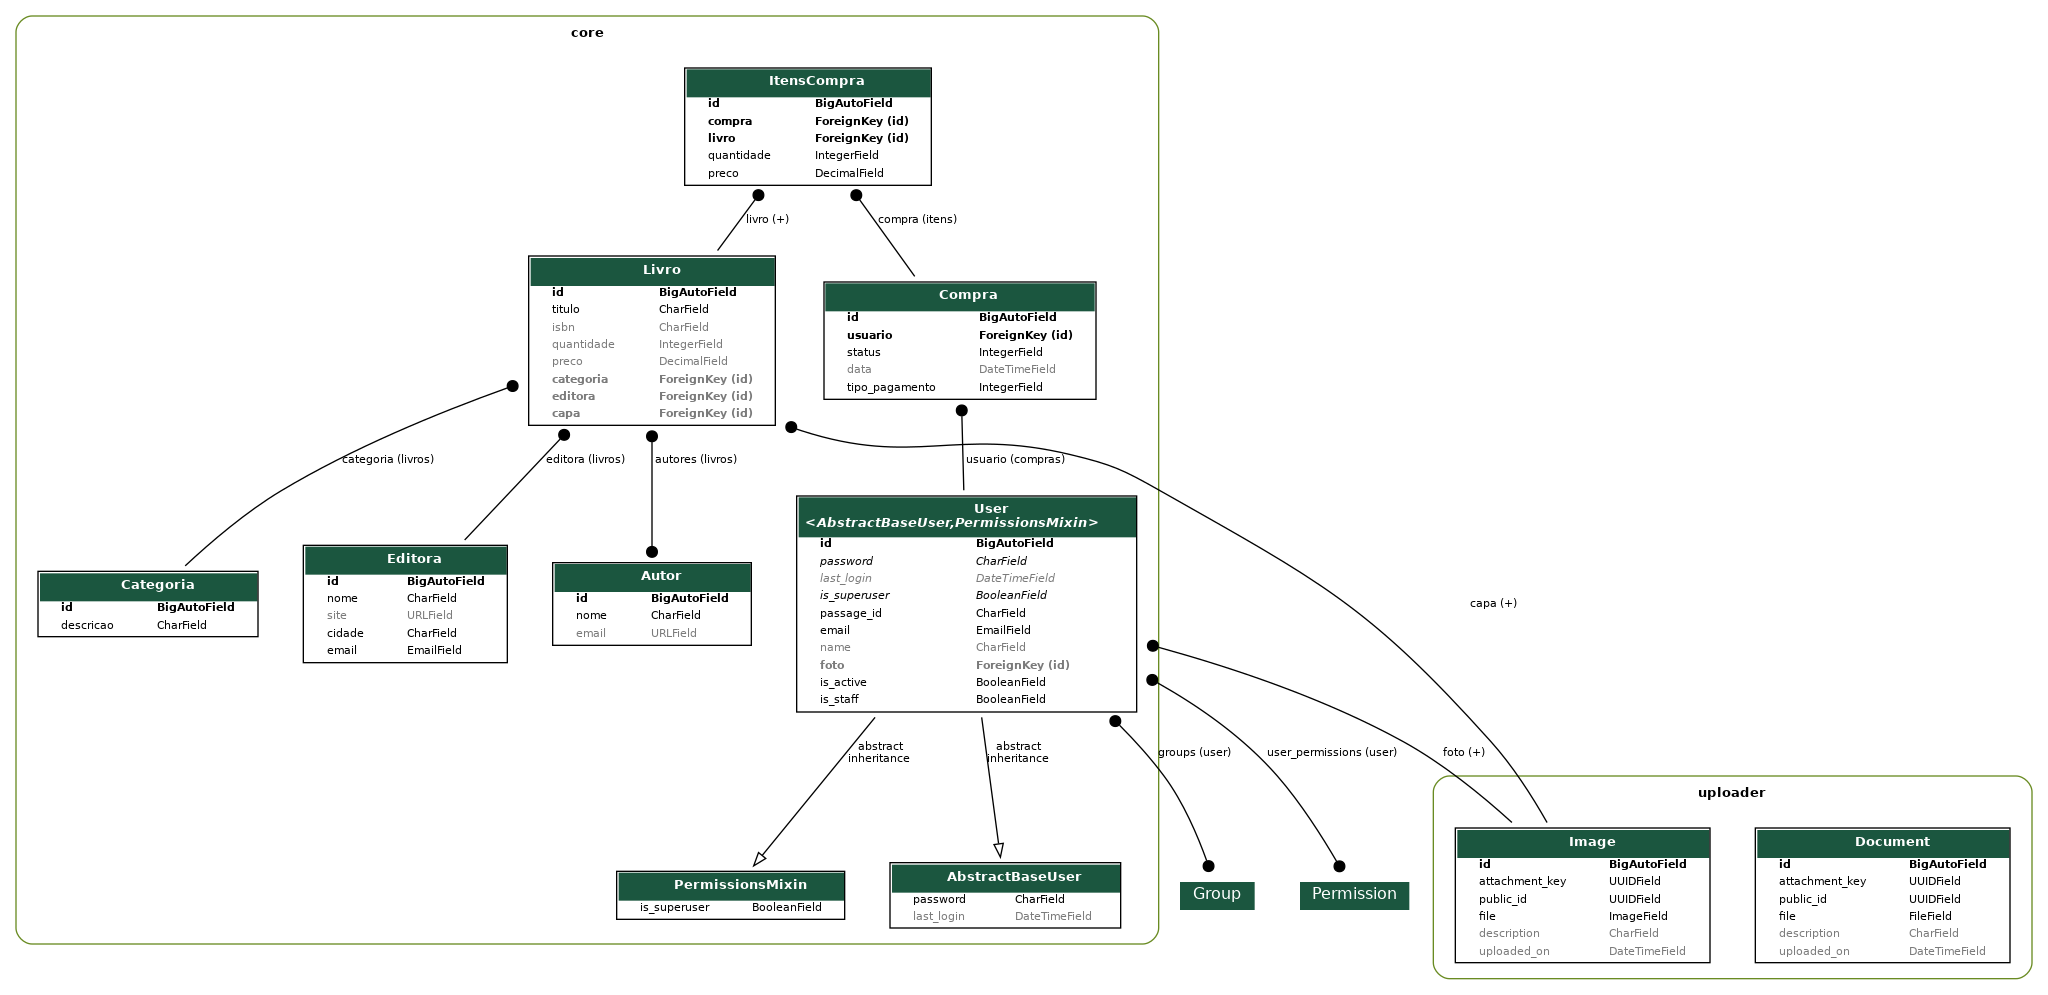
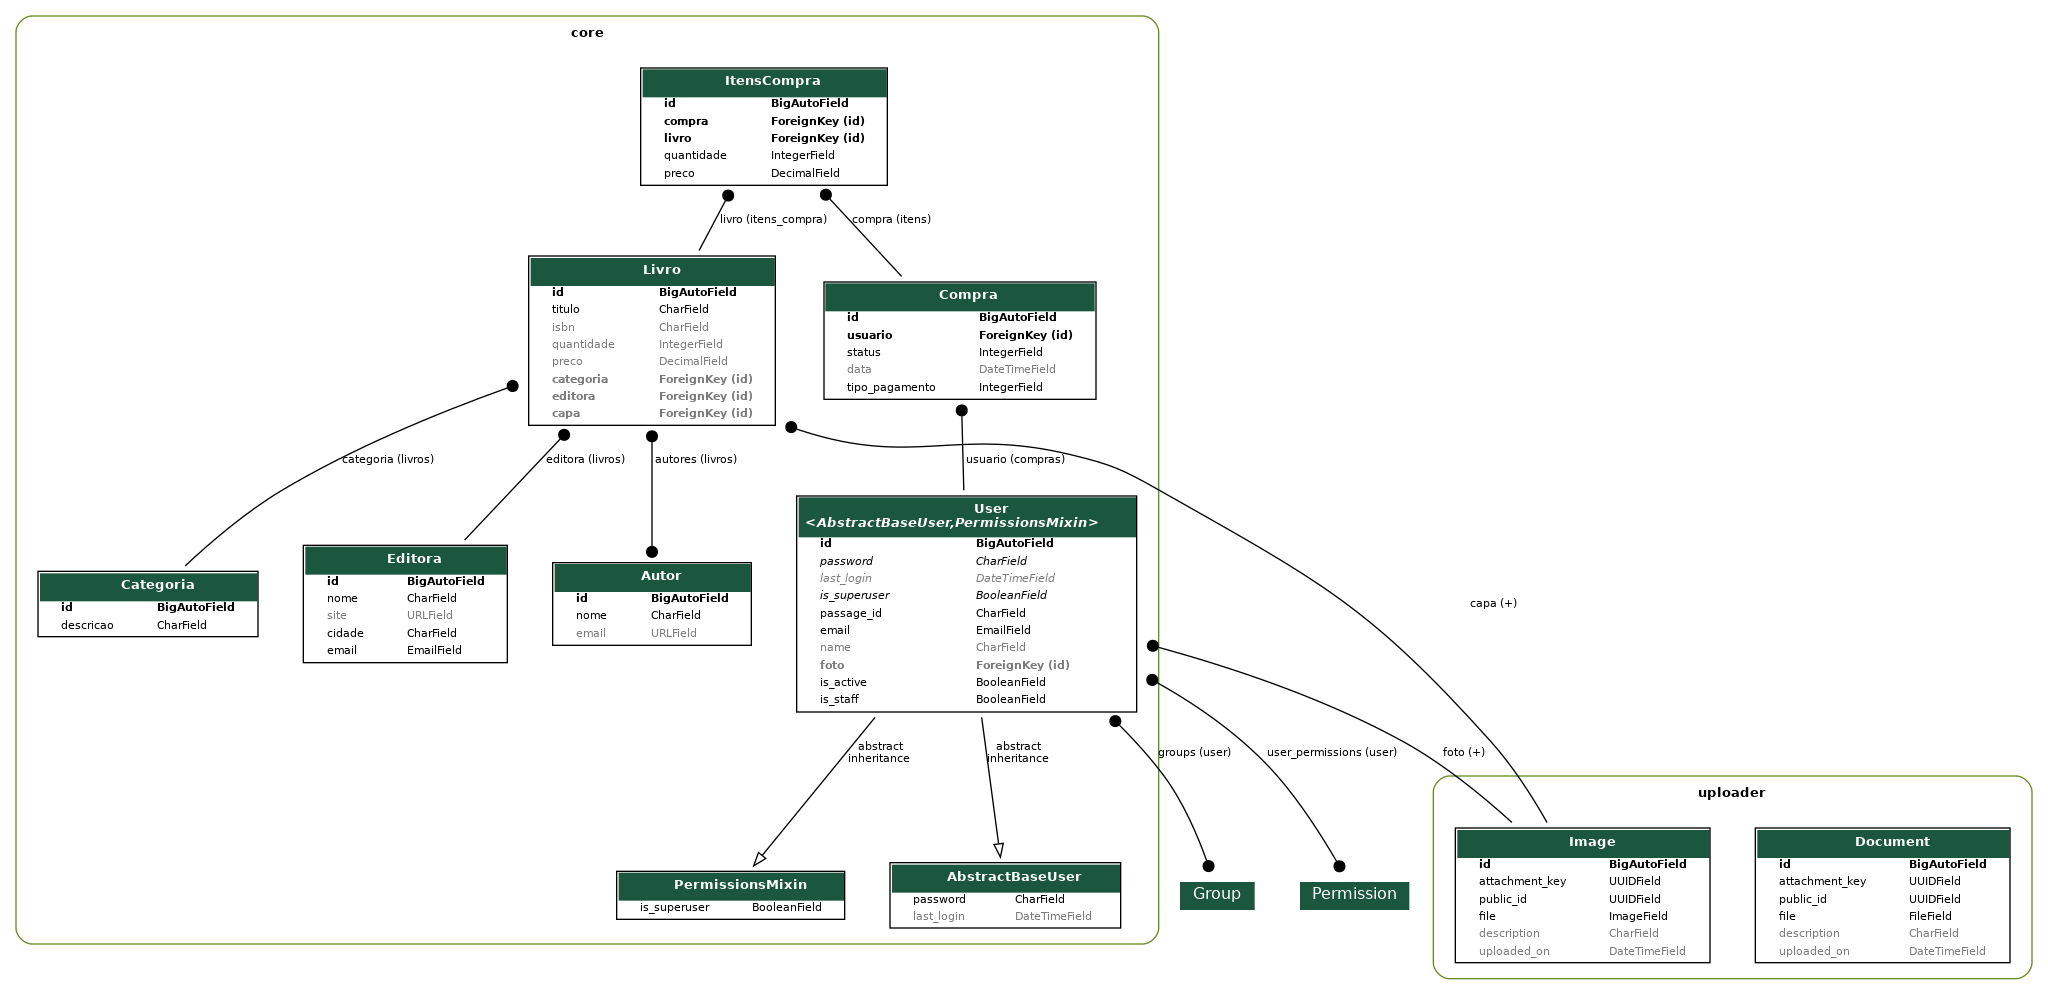
Listando os livros com mais de 10 cópias vendidas

Changed region(s): [[0.3125, 0.0623, 0.4688, 0.2492]]

diff --git a/core/views/livro.py b/core/views/livro.py
@@ -1,3 +1,5 @@
+from django.db.models.aggregates import Sum
+
 from rest_framework import status
 from rest_framework.decorators import action
 from rest_framework.filters import OrderingFilter, SearchFilter
@@ -10,7 +12,7 @@ from core.serializers import (
     LivroListSerializer,
     LivroRetrieveSerializer,
     LivroSerializer,
-    LivroAjustarEstoqueSerializer
+    LivroAjustarEstoqueSerializer,
 )
 
 
@@ -54,3 +56,29 @@ class LivroViewSet(ModelViewSet):
         return Response(
             {"status": "Quantidade ajustada com sucesso", "novo_estoque": livro.quantidade}, status=status.HTTP_200_OK
         )
+
+    @action(detail=False, methods=["get"])
+    def mais_vendidos(self, request):
+        # Otimizando a consulta com select_related, caso haja relação ForeignKey
+        livros = (
+            Livro.objects.annotate(total_vendidos=Sum("itens_compra__quantidade"))
+            .filter(total_vendidos__gt=10)
+            .order_by("-total_vendidos")
+        )  # Ordena pelo total vendido em ordem decrescente
+
+        # Verificando se há livros e formatando os dados
+        if livros.exists():
+            data = [
+                {
+                    "id": livro.id,
+                    "titulo": livro.titulo,
+                    "total_vendidos": livro.total_vendidos,
+                }
+                for livro in livros
+            ]
+            return Response(data, status=status.HTTP_200_OK)
+        else:
+            return Response(
+                {"detail": "Nenhum livro encontrado com mais de 10 vendas."},
+                status=status.HTTP_404_NOT_FOUND,
+            )

diff --git a/core/migrations/0019_alter_itenscompra_livro.py b/core/migrations/0019_alter_itenscompra_livro.py
@@ -1,0 +1,21 @@
+# Generated by Django 5.1.3 on 2024-12-02 11:33
+
+import django.db.models.deletion
+from django.db import migrations, models
+
+
+class Migration(migrations.Migration):
+
+    dependencies = [
+        ("core", "0018_compra_tipo_pagamento"),
+    ]
+
+    operations = [
+        migrations.AlterField(
+            model_name="itenscompra",
+            name="livro",
+            field=models.ForeignKey(
+                on_delete=django.db.models.deletion.PROTECT, related_name="itens_compra", to="core.livro"
+            ),
+        ),
+    ]

diff --git a/core/models/compra.py b/core/models/compra.py
@@ -32,6 +32,6 @@ class Compra(models.Model):
 
 class ItensCompra(models.Model):
     compra = models.ForeignKey(Compra, on_delete=models.CASCADE, related_name="itens")
-    livro = models.ForeignKey(Livro, on_delete=models.PROTECT, related_name="+")
+    livro = models.ForeignKey(Livro, on_delete=models.PROTECT, related_name="itens_compra")
     quantidade = models.IntegerField(default=1)
     preco = models.DecimalField(max_digits=10, decimal_places=2, default=0)
